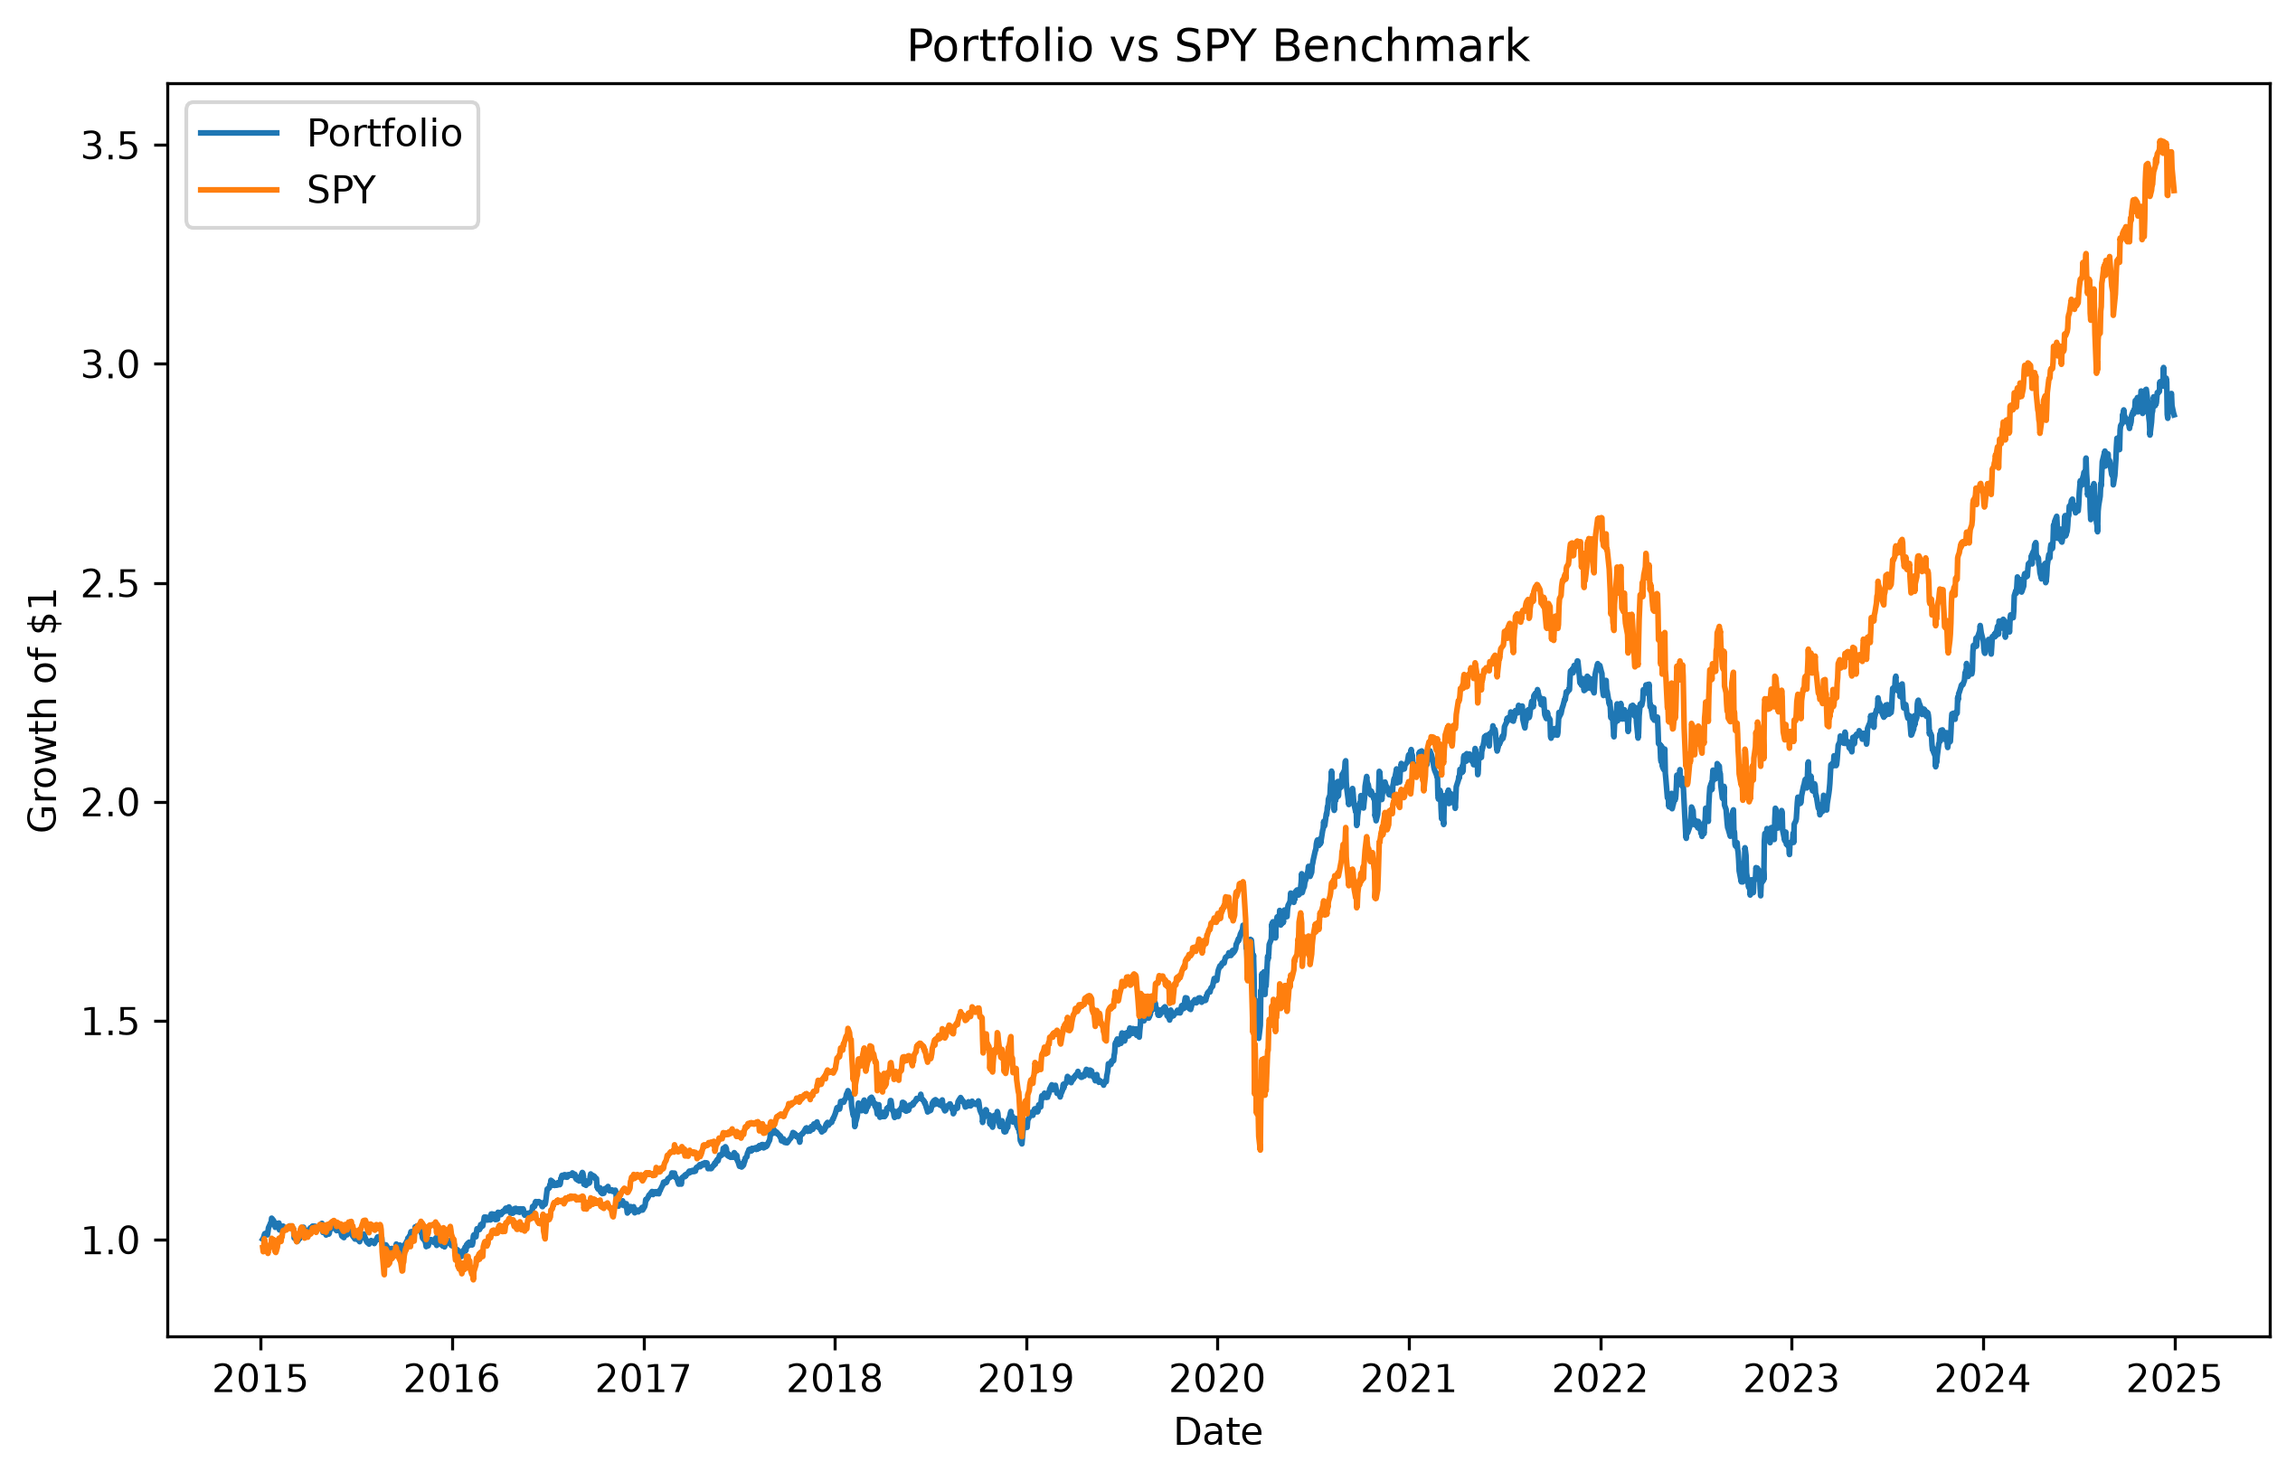
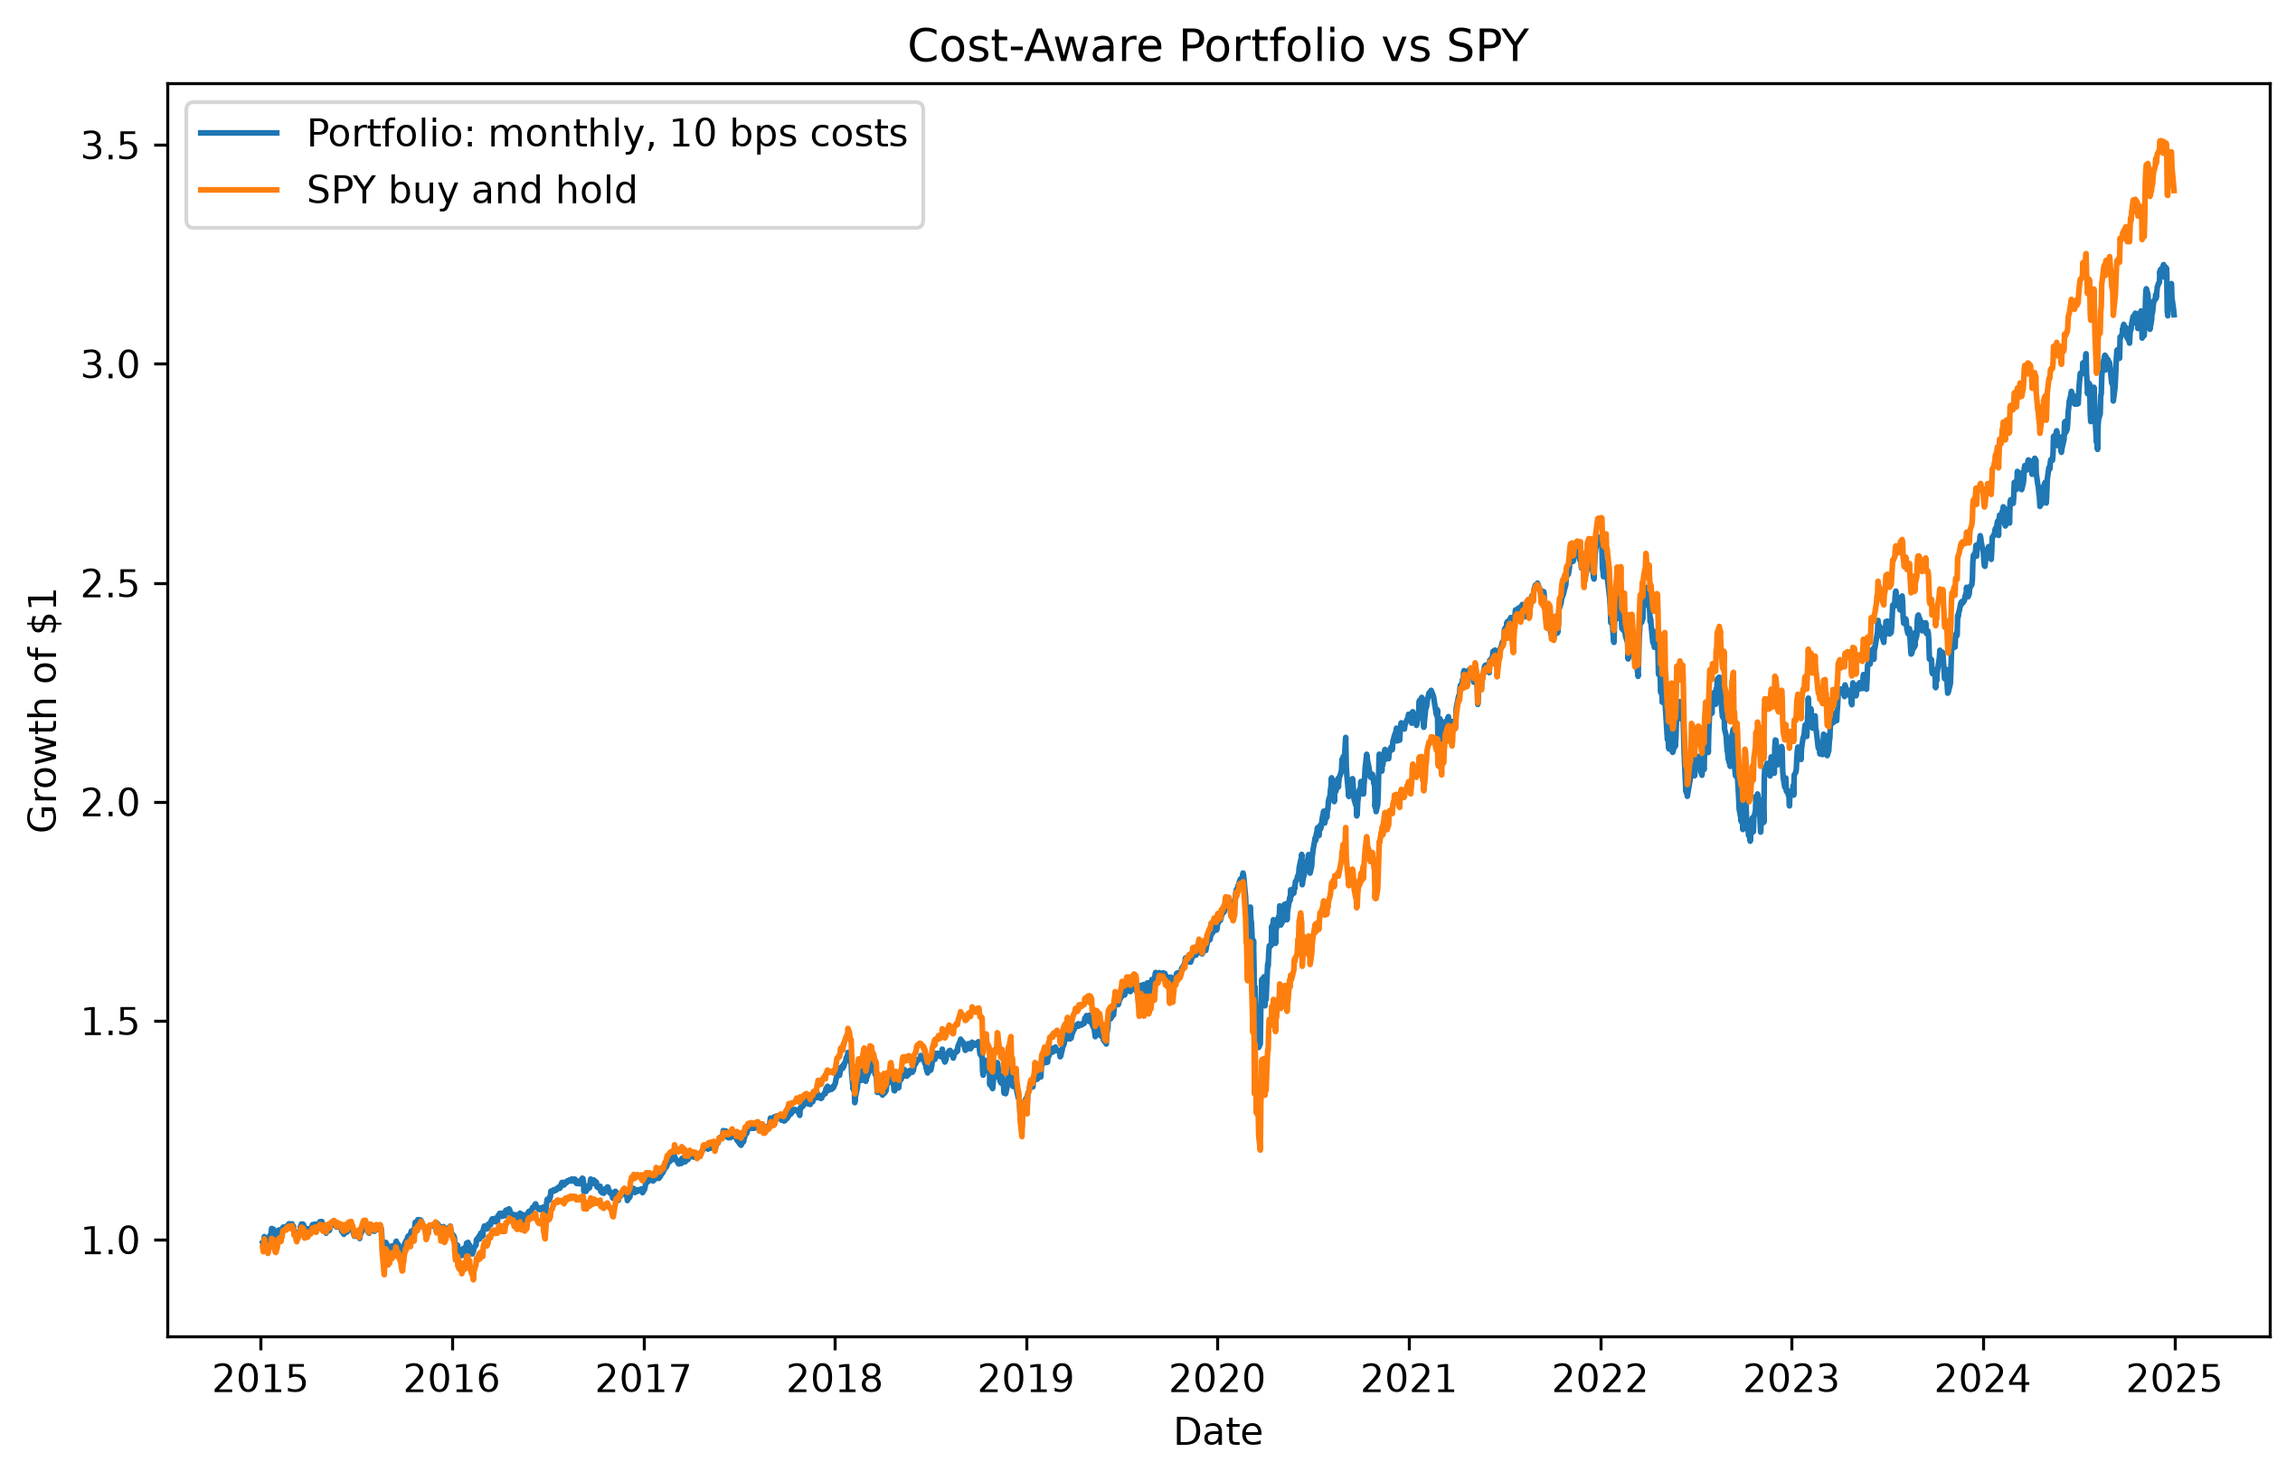
Unify portfolio backtest and SPY benchmark assumptions

diff --git a/backtesting.py b/backtesting.py
@@ -9,11 +9,44 @@ TICKERS = ["SPY", "QQQ", "GLD", "TLT"]
 TARGET_WEIGHTS = np.array([0.4, 0.3, 0.15, 0.15])
 START_DATE = "2015-01-01"
 END_DATE = "2025-01-01"
-
-# Edit these settings to compare another schedule or transaction-cost rate.
-REBALANCE_FREQUENCY = "monthly"  # "monthly" or "quarterly"
-TRANSACTION_COST_BPS = 10  # Cost per dollar traded, in basis points.
+REBALANCE_FREQUENCY = "monthly"  # Change to "quarterly" if desired.
+TRANSACTION_COST_BPS = 10
 TRADING_DAYS = 252
+
+
+def cost_aware_backtest(asset_returns, target_weights, frequency, cost_bps):
+    period_code = {"monthly": "M", "quarterly": "Q"}.get(frequency)
+    if period_code is None:
+        raise ValueError("Frequency must be 'monthly' or 'quarterly'.")
+
+    rebalance_dates = ~asset_returns.index.to_period(period_code).duplicated(
+        keep="last"
+    )
+    cost_rate = cost_bps / 10_000
+    current_weights = target_weights.copy()
+    portfolio_value = 1.0
+    daily_returns, portfolio_values = [], []
+    cumulative_turnover = 0.0
+
+    for daily_asset_returns, should_rebalance in zip(
+        asset_returns.to_numpy(), rebalance_dates
+    ):
+        previous_value = portfolio_value
+        portfolio_return = np.dot(current_weights, daily_asset_returns)
+        portfolio_value *= 1 + portfolio_return
+        current_weights *= 1 + daily_asset_returns
+        current_weights /= 1 + portfolio_return
+
+        if should_rebalance:
+            turnover = np.abs(target_weights - current_weights).sum()
+            portfolio_value *= 1 - cost_rate * turnover
+            cumulative_turnover += turnover
+            current_weights = target_weights.copy()
+
+        daily_returns.append(portfolio_value / previous_value - 1)
+        portfolio_values.append(portfolio_value)
+
+    return np.array(daily_returns), np.array(portfolio_values), cumulative_turnover
 
 
 def annualized_return(daily_returns):
@@ -25,127 +58,74 @@ def annualized_volatility(daily_returns):
 
 
 def maximum_drawdown(portfolio_values):
-    values_with_initial = np.insert(portfolio_values, 0, 1.0)
-    running_max = np.maximum.accumulate(values_with_initial)
-    drawdowns = values_with_initial / running_max - 1
+    values = np.insert(portfolio_values, 0, 1.0)
+    drawdowns = values / np.maximum.accumulate(values) - 1
     return np.min(drawdowns)
 
 
-def cost_aware_backtest(asset_returns, target_weights, frequency, cost_bps):
-    period_aliases = {"monthly": "M", "quarterly": "Q"}
-    if frequency not in period_aliases:
-        raise ValueError("REBALANCE_FREQUENCY must be 'monthly' or 'quarterly'.")
+def performance_summary(daily_returns, portfolio_values):
+    return {
+        "final_value": portfolio_values[-1],
+        "total_return": portfolio_values[-1] - 1,
+        "annualized_return": annualized_return(daily_returns),
+        "annualized_volatility": annualized_volatility(daily_returns),
+        "maximum_drawdown": maximum_drawdown(portfolio_values),
+    }
 
-    period_ids = asset_returns.index.to_period(period_aliases[frequency])
-    rebalance_dates = ~period_ids.duplicated(keep="last")
-    cost_rate = cost_bps / 10_000
 
-    current_weights = target_weights.copy()
-    portfolio_value = 1.0
-    portfolio_values = []
-    daily_returns = []
-    cumulative_turnover = 0.0
+def main():
+    data = yf.download(TICKERS, start=START_DATE, end=END_DATE)
+    prices = data["Close"].loc[:, TICKERS]
+    asset_returns = prices.pct_change().dropna()
 
-    for asset_daily_returns, should_rebalance in zip(
-        asset_returns.to_numpy(), rebalance_dates
-    ):
-        gross_return = np.dot(current_weights, asset_daily_returns)
-        value_after_market_return = portfolio_value * (1 + gross_return)
-        drifted_weights = (
-            current_weights * (1 + asset_daily_returns) / (1 + gross_return)
-        )
-
-        if should_rebalance:
-            # Sum of absolute weight changes counts both buys and sells.
-            turnover = np.abs(target_weights - drifted_weights).sum()
-            transaction_cost = cost_rate * turnover
-            value_after_market_return *= 1 - transaction_cost
-            current_weights = target_weights.copy()
-            cumulative_turnover += turnover
-        else:
-            current_weights = drifted_weights
-
-        daily_returns.append(value_after_market_return / portfolio_value - 1)
-        portfolio_value = value_after_market_return
-        portfolio_values.append(portfolio_value)
-
-    return (
-        np.asarray(daily_returns),
-        np.asarray(portfolio_values),
-        cumulative_turnover,
+    # The original daily, zero-cost strategy is kept as a baseline.
+    baseline_returns = asset_returns.to_numpy() @ TARGET_WEIGHTS
+    baseline_values = (1 + baseline_returns).cumprod()
+    cost_returns, cost_values, turnover = cost_aware_backtest(
+        asset_returns, TARGET_WEIGHTS, REBALANCE_FREQUENCY, TRANSACTION_COST_BPS
     )
 
+    baseline = performance_summary(baseline_returns, baseline_values)
+    cost_aware = performance_summary(cost_returns, cost_values)
 
-data = yf.download(TICKERS, start=START_DATE, end=END_DATE)
-prices = data["Close"].loc[:, TICKERS]
-asset_returns = prices.pct_change().dropna()
+    result = f"""PORTFOLIO BACKTEST COMPARISON
+Period: {START_DATE} to {END_DATE}
 
-# Daily frictionless rebalancing remains the baseline for comparison.
-daily_baseline_returns = asset_returns.to_numpy() @ TARGET_WEIGHTS
-daily_baseline_values = (1 + daily_baseline_returns).cumprod()
+Daily rebalancing baseline (no transaction costs)
+Final Portfolio Value: ${baseline['final_value']:.4f}
+Total Return: {baseline['total_return']:.2%}
+Annualized Arithmetic Return: {baseline['annualized_return']:.2%}
+Annualized Volatility: {baseline['annualized_volatility']:.2%}
+Maximum Drawdown: {baseline['maximum_drawdown']:.2%}
 
-cost_aware_returns, cost_aware_values, cumulative_turnover = cost_aware_backtest(
-    asset_returns,
-    TARGET_WEIGHTS,
-    REBALANCE_FREQUENCY,
-    TRANSACTION_COST_BPS,
-)
+{REBALANCE_FREQUENCY.title()} rebalancing with transaction costs
+Transaction Cost: {TRANSACTION_COST_BPS} bps per dollar traded
+Final Portfolio Value: ${cost_aware['final_value']:.4f}
+Total Return: {cost_aware['total_return']:.2%}
+Annualized Arithmetic Return: {cost_aware['annualized_return']:.2%}
+Annualized Volatility: {cost_aware['annualized_volatility']:.2%}
+Maximum Drawdown: {cost_aware['maximum_drawdown']:.2%}
+Cumulative Two-Way Turnover: {turnover:.2%}"""
+    print(result)
 
-baseline_summary = {
-    "final_value": daily_baseline_values[-1],
-    "total_return": daily_baseline_values[-1] - 1,
-    "annualized_return": annualized_return(daily_baseline_returns),
-    "annualized_volatility": annualized_volatility(daily_baseline_returns),
-    "maximum_drawdown": maximum_drawdown(daily_baseline_values),
-}
-cost_aware_summary = {
-    "final_value": cost_aware_values[-1],
-    "total_return": cost_aware_values[-1] - 1,
-    "annualized_return": annualized_return(cost_aware_returns),
-    "annualized_volatility": annualized_volatility(cost_aware_returns),
-    "maximum_drawdown": maximum_drawdown(cost_aware_values),
-}
+    plt.figure(figsize=(10, 6))
+    plt.plot(asset_returns.index, baseline_values, label="Daily, no costs")
+    plt.plot(
+        asset_returns.index,
+        cost_values,
+        label=f"{REBALANCE_FREQUENCY.title()}, {TRANSACTION_COST_BPS} bps costs",
+    )
+    plt.title("Portfolio Backtest: Rebalancing and Transaction Costs")
+    plt.xlabel("Date")
+    plt.ylabel("Growth of $1")
+    plt.legend()
 
-lines = [
-    "PORTFOLIO BACKTEST COMPARISON",
-    f"Period: {START_DATE} to {END_DATE}",
-    "",
-    "Daily rebalancing baseline (no transaction costs)",
-    f"Final Portfolio Value: ${baseline_summary['final_value']:.4f}",
-    f"Total Return: {baseline_summary['total_return']:.2%}",
-    f"Annualized Arithmetic Return: {baseline_summary['annualized_return']:.2%}",
-    f"Annualized Volatility: {baseline_summary['annualized_volatility']:.2%}",
-    f"Maximum Drawdown: {baseline_summary['maximum_drawdown']:.2%}",
-    "",
-    f"{REBALANCE_FREQUENCY.title()} rebalancing with transaction costs",
-    f"Transaction Cost: {TRANSACTION_COST_BPS} bps per dollar traded",
-    f"Final Portfolio Value: ${cost_aware_summary['final_value']:.4f}",
-    f"Total Return: {cost_aware_summary['total_return']:.2%}",
-    f"Annualized Arithmetic Return: {cost_aware_summary['annualized_return']:.2%}",
-    f"Annualized Volatility: {cost_aware_summary['annualized_volatility']:.2%}",
-    f"Maximum Drawdown: {cost_aware_summary['maximum_drawdown']:.2%}",
-    f"Cumulative Two-Way Turnover: {cumulative_turnover:.2%}",
-]
-result = "\n".join(lines)
-print(result)
+    results_dir = Path("results")
+    results_dir.mkdir(parents=True, exist_ok=True)
+    plt.savefig(results_dir / "backtest.png", dpi=300, bbox_inches="tight")
+    (results_dir / "backtest.txt").write_text(result + "\n", encoding="utf-8")
+    plt.show()
 
-plt.figure(figsize=(10, 6))
-plt.plot(asset_returns.index, daily_baseline_values, label="Daily, no costs")
-plt.plot(
-    asset_returns.index,
-    cost_aware_values,
-    label=f"{REBALANCE_FREQUENCY.title()}, {TRANSACTION_COST_BPS} bps costs",
-)
-plt.title("Portfolio Backtest: Rebalancing and Transaction Costs")
-plt.xlabel("Date")
-plt.ylabel("Growth of $1")
-plt.legend()
 
-results_dir = Path("results")
-results_dir.mkdir(parents=True, exist_ok=True)
-plt.savefig(results_dir / "backtest.png", dpi=300, bbox_inches="tight")
-
-output_path = results_dir / "backtest.txt"
-output_path.write_text(result + "\n", encoding="utf-8")
-
-plt.show()
+if __name__ == "__main__":
+    main()

diff --git a/benchmark_comparison.py b/benchmark_comparison.py
@@ -1,82 +1,81 @@
-import yfinance as yf
-import numpy as np
+from pathlib import Path
+
 import matplotlib.pyplot as plt
+import yfinance as yf
 
-tickers = ["SPY", "QQQ", "GLD", "TLT"]
-
-data = yf.download(
-    tickers,
-    start="2015-01-01",
-    end="2025-01-01"
+from backtesting import (
+    END_DATE,
+    REBALANCE_FREQUENCY,
+    START_DATE,
+    TARGET_WEIGHTS,
+    TRANSACTION_COST_BPS,
+    cost_aware_backtest,
+    performance_summary,
 )
 
-prices = data["Close"].loc[:, tickers]
 
-returns = prices.pct_change().dropna()
+TICKERS = ["SPY", "QQQ", "GLD", "TLT"]
 
-# Portfolio
 
-weights = np.array([0.4, 0.3, 0.15, 0.15])
+def main():
+    data = yf.download(TICKERS, start=START_DATE, end=END_DATE)
+    prices = data["Close"].loc[:, TICKERS]
+    asset_returns = prices.pct_change().dropna()
 
-portfolio_returns = returns @ weights
+    portfolio_returns, portfolio_values, turnover = cost_aware_backtest(
+        asset_returns, TARGET_WEIGHTS, REBALANCE_FREQUENCY, TRANSACTION_COST_BPS
+    )
 
-# Benchmark
+    # SPY is the buy-and-hold benchmark over the same dates.
+    spy_returns = asset_returns["SPY"].to_numpy()
+    spy_values = (1 + spy_returns).cumprod()
+    portfolio = performance_summary(portfolio_returns, portfolio_values)
+    spy = performance_summary(spy_returns, spy_values)
 
-spy_returns = returns["SPY"]
+    result = f"""COST-AWARE PORTFOLIO VS SPY BENCHMARK
+Period: {START_DATE} to {END_DATE}
+Portfolio rebalancing: {REBALANCE_FREQUENCY}
+Portfolio transaction cost: {TRANSACTION_COST_BPS} bps per dollar traded
+SPY benchmark: buy and hold
 
-# Cumulative growth
+Portfolio
+Final Value: ${portfolio['final_value']:.4f}
+Total Return: {portfolio['total_return']:.2%}
+Annualized Arithmetic Return: {portfolio['annualized_return']:.2%}
+Annualized Volatility: {portfolio['annualized_volatility']:.2%}
+Maximum Drawdown: {portfolio['maximum_drawdown']:.2%}
+Cumulative Two-Way Turnover: {turnover:.2%}
 
-portfolio_growth = (1 + portfolio_returns).cumprod()
+SPY
+Final Value: ${spy['final_value']:.4f}
+Total Return: {spy['total_return']:.2%}
+Annualized Arithmetic Return: {spy['annualized_return']:.2%}
+Annualized Volatility: {spy['annualized_volatility']:.2%}
+Maximum Drawdown: {spy['maximum_drawdown']:.2%}"""
+    print(result)
 
-spy_growth = (1 + spy_returns).cumprod()
+    plt.figure(figsize=(10, 6))
+    plt.plot(
+        asset_returns.index,
+        portfolio_values,
+        label=f"Portfolio: {REBALANCE_FREQUENCY}, {TRANSACTION_COST_BPS} bps costs",
+    )
+    plt.plot(asset_returns.index, spy_values, label="SPY buy and hold")
+    plt.title("Cost-Aware Portfolio vs SPY")
+    plt.xlabel("Date")
+    plt.ylabel("Growth of $1")
+    plt.legend()
 
-# Metrics
+    results_dir = Path("results")
+    results_dir.mkdir(parents=True, exist_ok=True)
+    plt.savefig(
+        results_dir / "benchmark_comparison.png", dpi=300, bbox_inches="tight"
+    )
+    (results_dir / "benchmark_comparison.txt").write_text(
+        result + "\n", encoding="utf-8"
+    )
+    plt.show()
 
-portfolio_return = portfolio_returns.mean() * 252
-spy_return = spy_returns.mean() * 252
 
-portfolio_volatility = (
-    portfolio_returns.std() * np.sqrt(252)
-)
-
-spy_volatility = (
-    spy_returns.std() * np.sqrt(252)
-)
-
-print("PORTFOLIO")
-print(f"Annualized Arithmetic Return: {portfolio_return:.2%}")
-print(f"Annual Volatility: {portfolio_volatility:.2%}")
-
-print("\nSPY")
-print(f"Annualized Arithmetic Return: {spy_return:.2%}")
-print(f"Annual Volatility: {spy_volatility:.2%}")
-
-# Plot
-
-plt.figure(figsize=(10, 6))
-
-plt.plot(
-    portfolio_growth,
-    label="Portfolio"
-)
-
-plt.plot(
-    spy_growth,
-    label="SPY"
-)
-
-plt.title("Portfolio vs SPY Benchmark")
-
-plt.xlabel("Date")
-
-plt.ylabel("Growth of $1")
-
-plt.legend()
-
-plt.savefig(
-    "results/benchmark_comparison.png",
-    dpi=300,
-    bbox_inches="tight"
-)
-
-plt.show()
+if __name__ == "__main__":
+    main()

diff --git a/README.md b/README.md
@@ -101,9 +101,9 @@ Portfolio performance evaluated under hypothetical market events:
 
 ### Benchmark Comparison
 
-- Portfolio vs SPY benchmark
-- Return and volatility comparison
-- Comparative performance visualization
+- Monthly or quarterly cost-aware portfolio vs buy-and-hold SPY over the same period
+- Return, volatility, drawdown, and portfolio turnover comparison
+- Comparative growth visualization
 
 ### Performance Metrics
 
